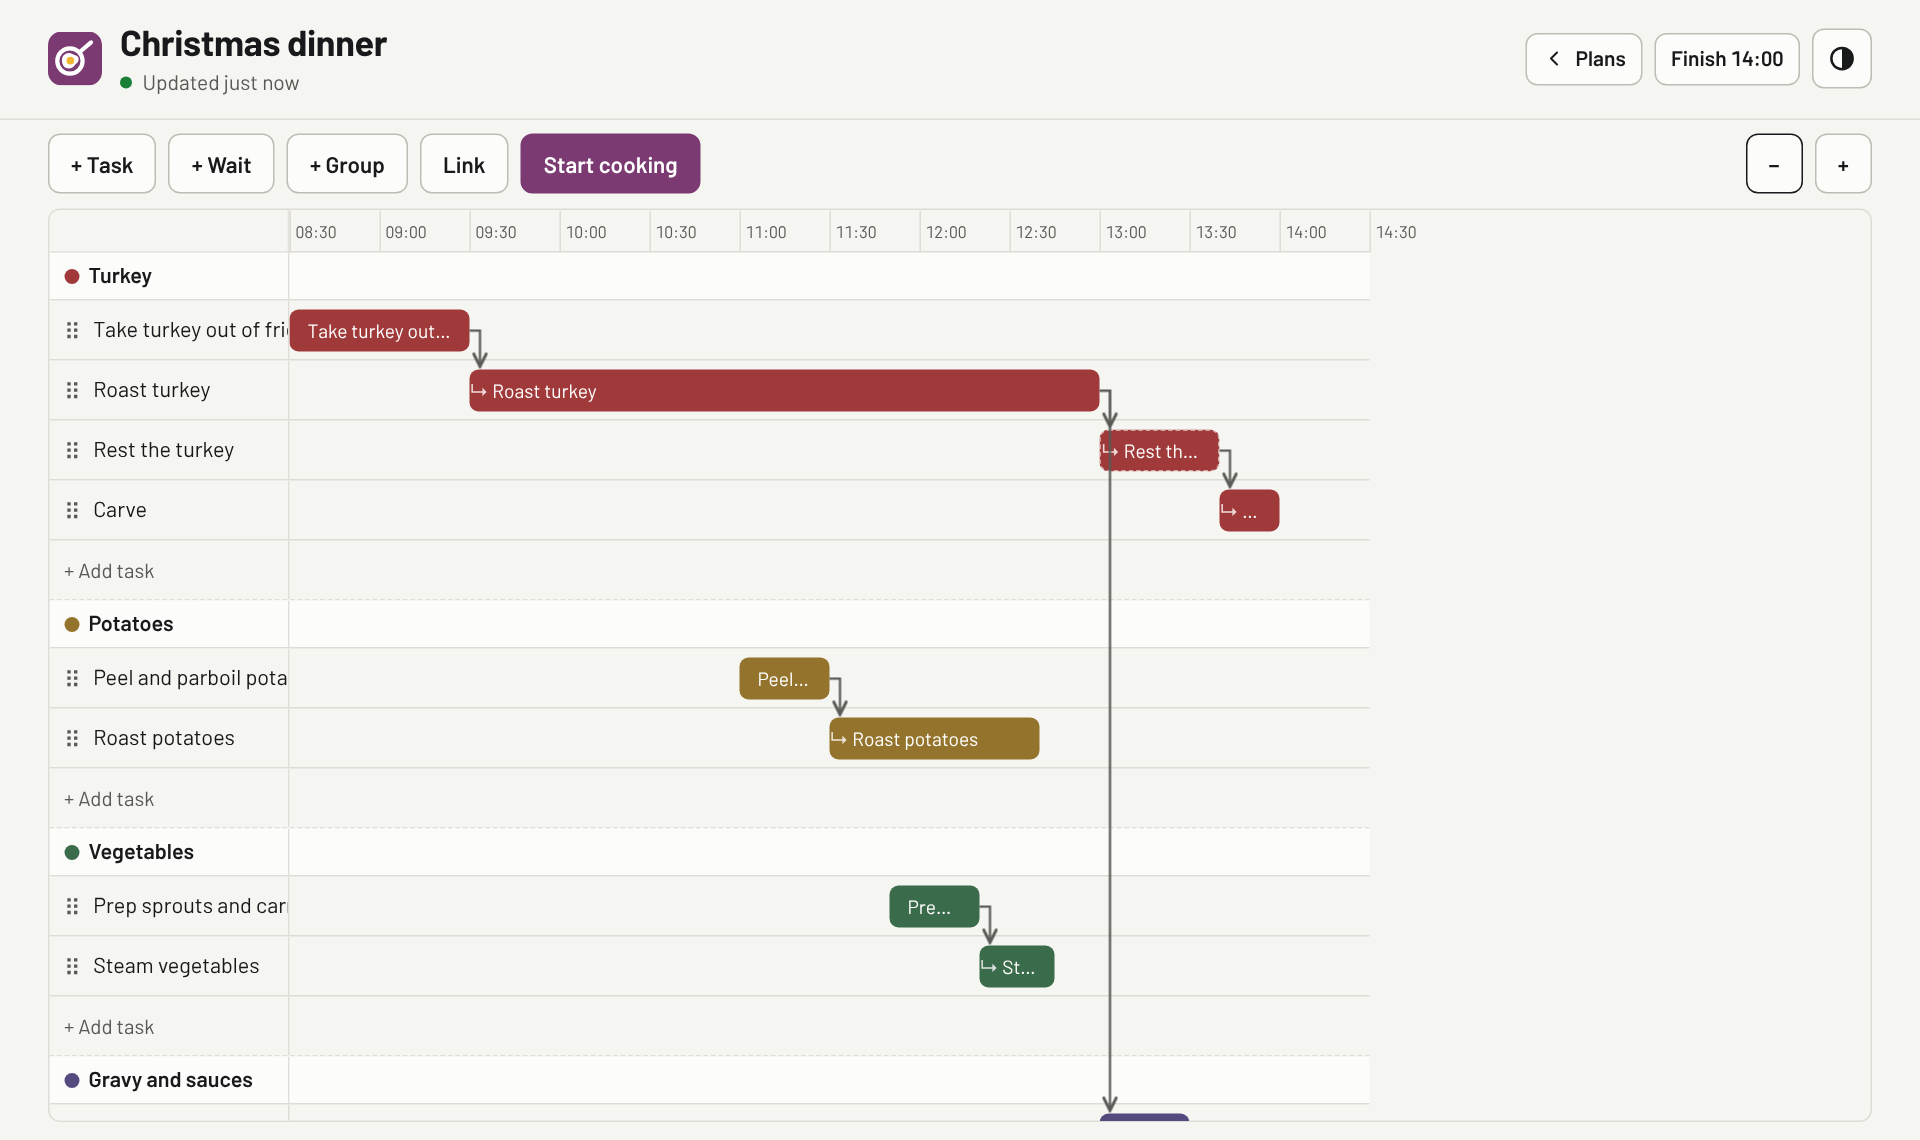
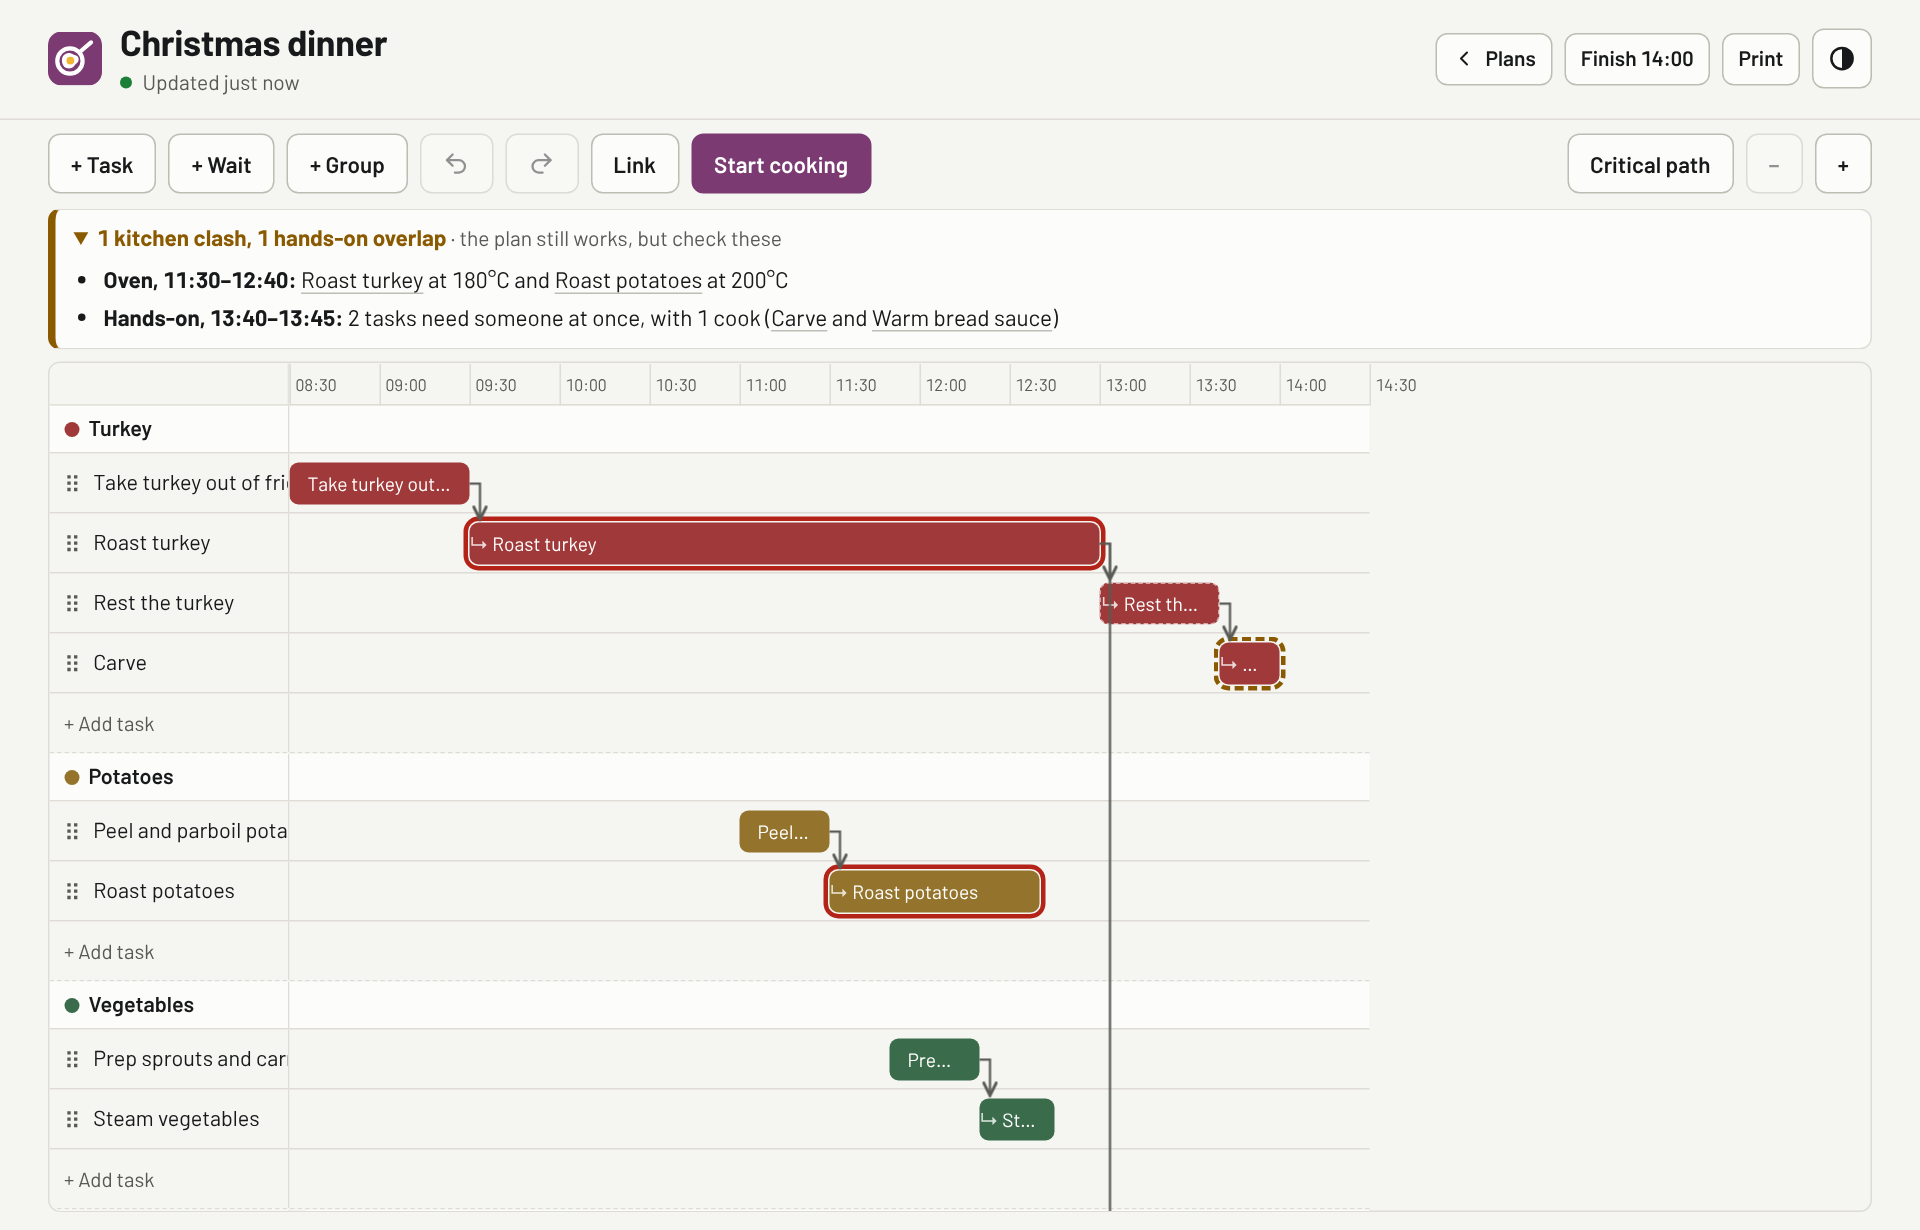
Add screenshots to the README
A Screenshots section with the plan list, the task editor, the critical
path (dark), the kitchen view (dark), two phone screens (a ringing alarm
and the kitchen view) and the two-page printout, all from the demo data
on the current version. The picture at the top is refreshed too.

Claude-Session: https://claude.ai/code/session_01T4CaiXRx3C6xuMAQCfgvKG

diff --git a/README.md b/README.md
@@ -4,6 +4,32 @@
 
 A Gantt-style planner for timing big meals, such as Christmas dinner. Lay out each dish as tasks on a shared timeline, link the ones that depend on each other, plan forwards from a start time or backwards from when food should be on the table, then follow the plan live on cooking day. Runs self-hosted in Docker.
 
+## Screenshots
+
+**Plans and templates**, with My kitchen, export and import:
+
+![The plan list: two plans and a template, each with export and delete buttons, plus import and export-all](docs/plan-list.png)
+
+**Editing a task**: timing, what equipment it uses, what it starts after, and whether it needs someone's hands:
+
+<img src="docs/task-editor.png" alt="The task editor for Roast potatoes: group, oven and temperature, start and duration, the tasks it starts after, and a hands-off tick box" width="420">
+
+**Critical path** (dark mode): the chain of tasks that decides when dinner is ready:
+
+![The Christmas dinner timeline in dark mode with the turkey chain outlined and the other tasks dimmed](docs/critical-path-dark.png)
+
+**Kitchen view** during a live run: what to do now, with time left, and what's next:
+
+![The kitchen view in dark mode: Roast turkey with a large countdown and a Done button, and the next four tasks with countdowns](docs/kitchen-view-dark.png)
+
+**On a phone**: an alarm ringing until silenced (left), and the kitchen view (right):
+
+<img src="docs/phones.png" alt="Two phone screens: a red Silence button over a Start now alert, and the kitchen view in dark mode" width="560">
+
+**Printout**: the whole timeline on one page, then a timed checklist:
+
+<img src="docs/print.png" alt="Two printed A4 pages: the Christmas dinner timeline, and a checklist with tick boxes, times, dishes and notes" width="640">
+
 ## Why
 
 Big meals need several dishes, each with several steps, to finish at the same moment. A timeline with dependencies (like a project plan) makes the timing visible and does the arithmetic when something runs late. It follows my shared app standard (see [How this was built](#how-this-was-built)).
@@ -153,7 +179,7 @@ Pushing to `master` runs the tests and publishes `ghcr.io/nick-a-louse/cooking-p
 
 ```
 .github/workflows/build.yml   CI: test → build → push to ghcr.io
-docs/screenshot.png           the picture at the top of this README
+docs/                         screenshots for this README
 Dockerfile                    two-stage image: builds the client, runs the server as 1003:1006
 docker-compose.yml            what runs on the server (/srv/cooking-planner)
 .env.example                  every setting, commented
